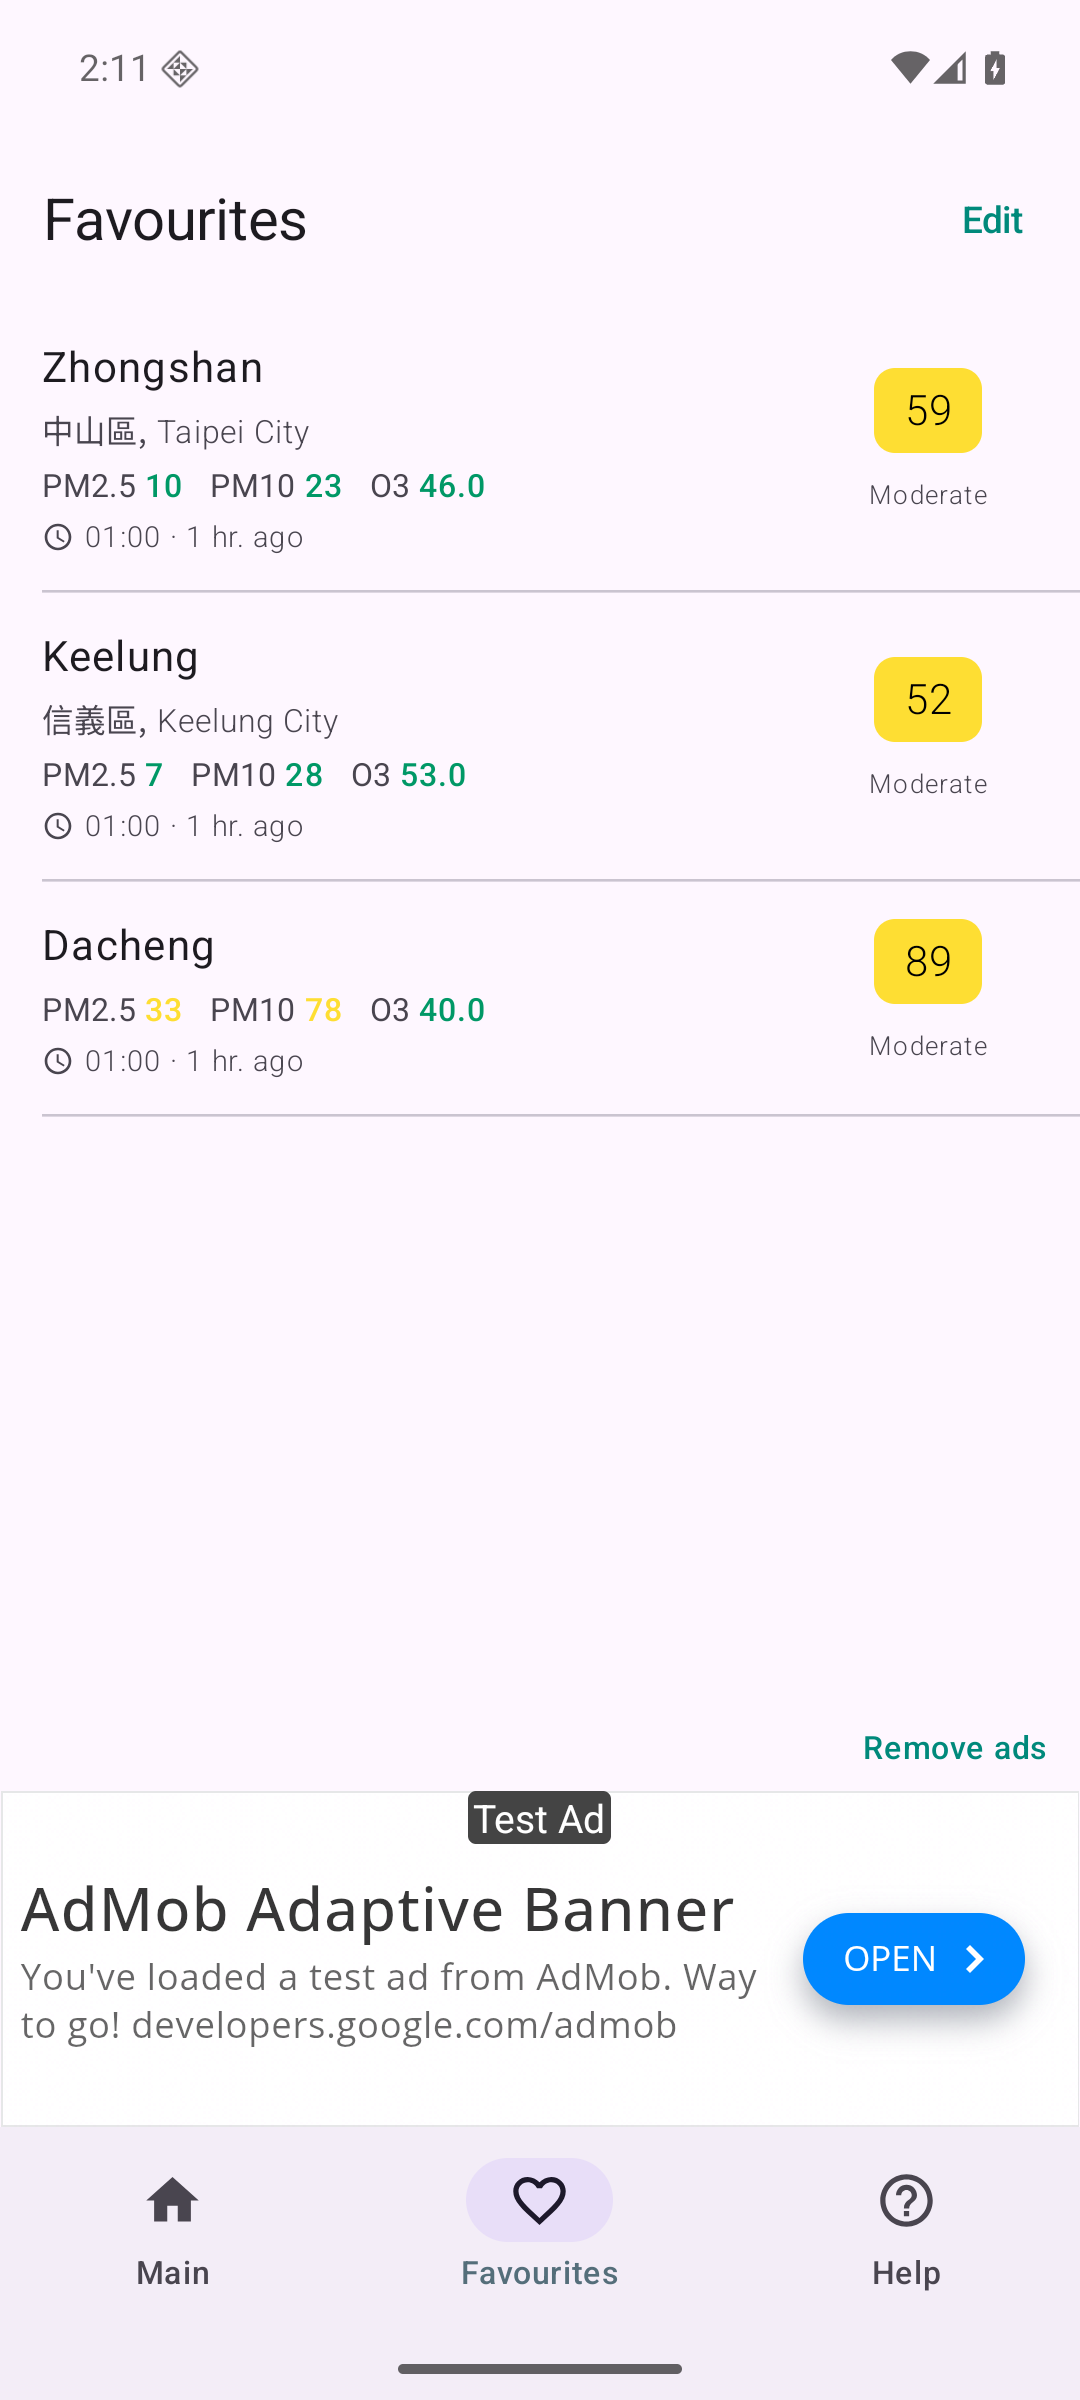
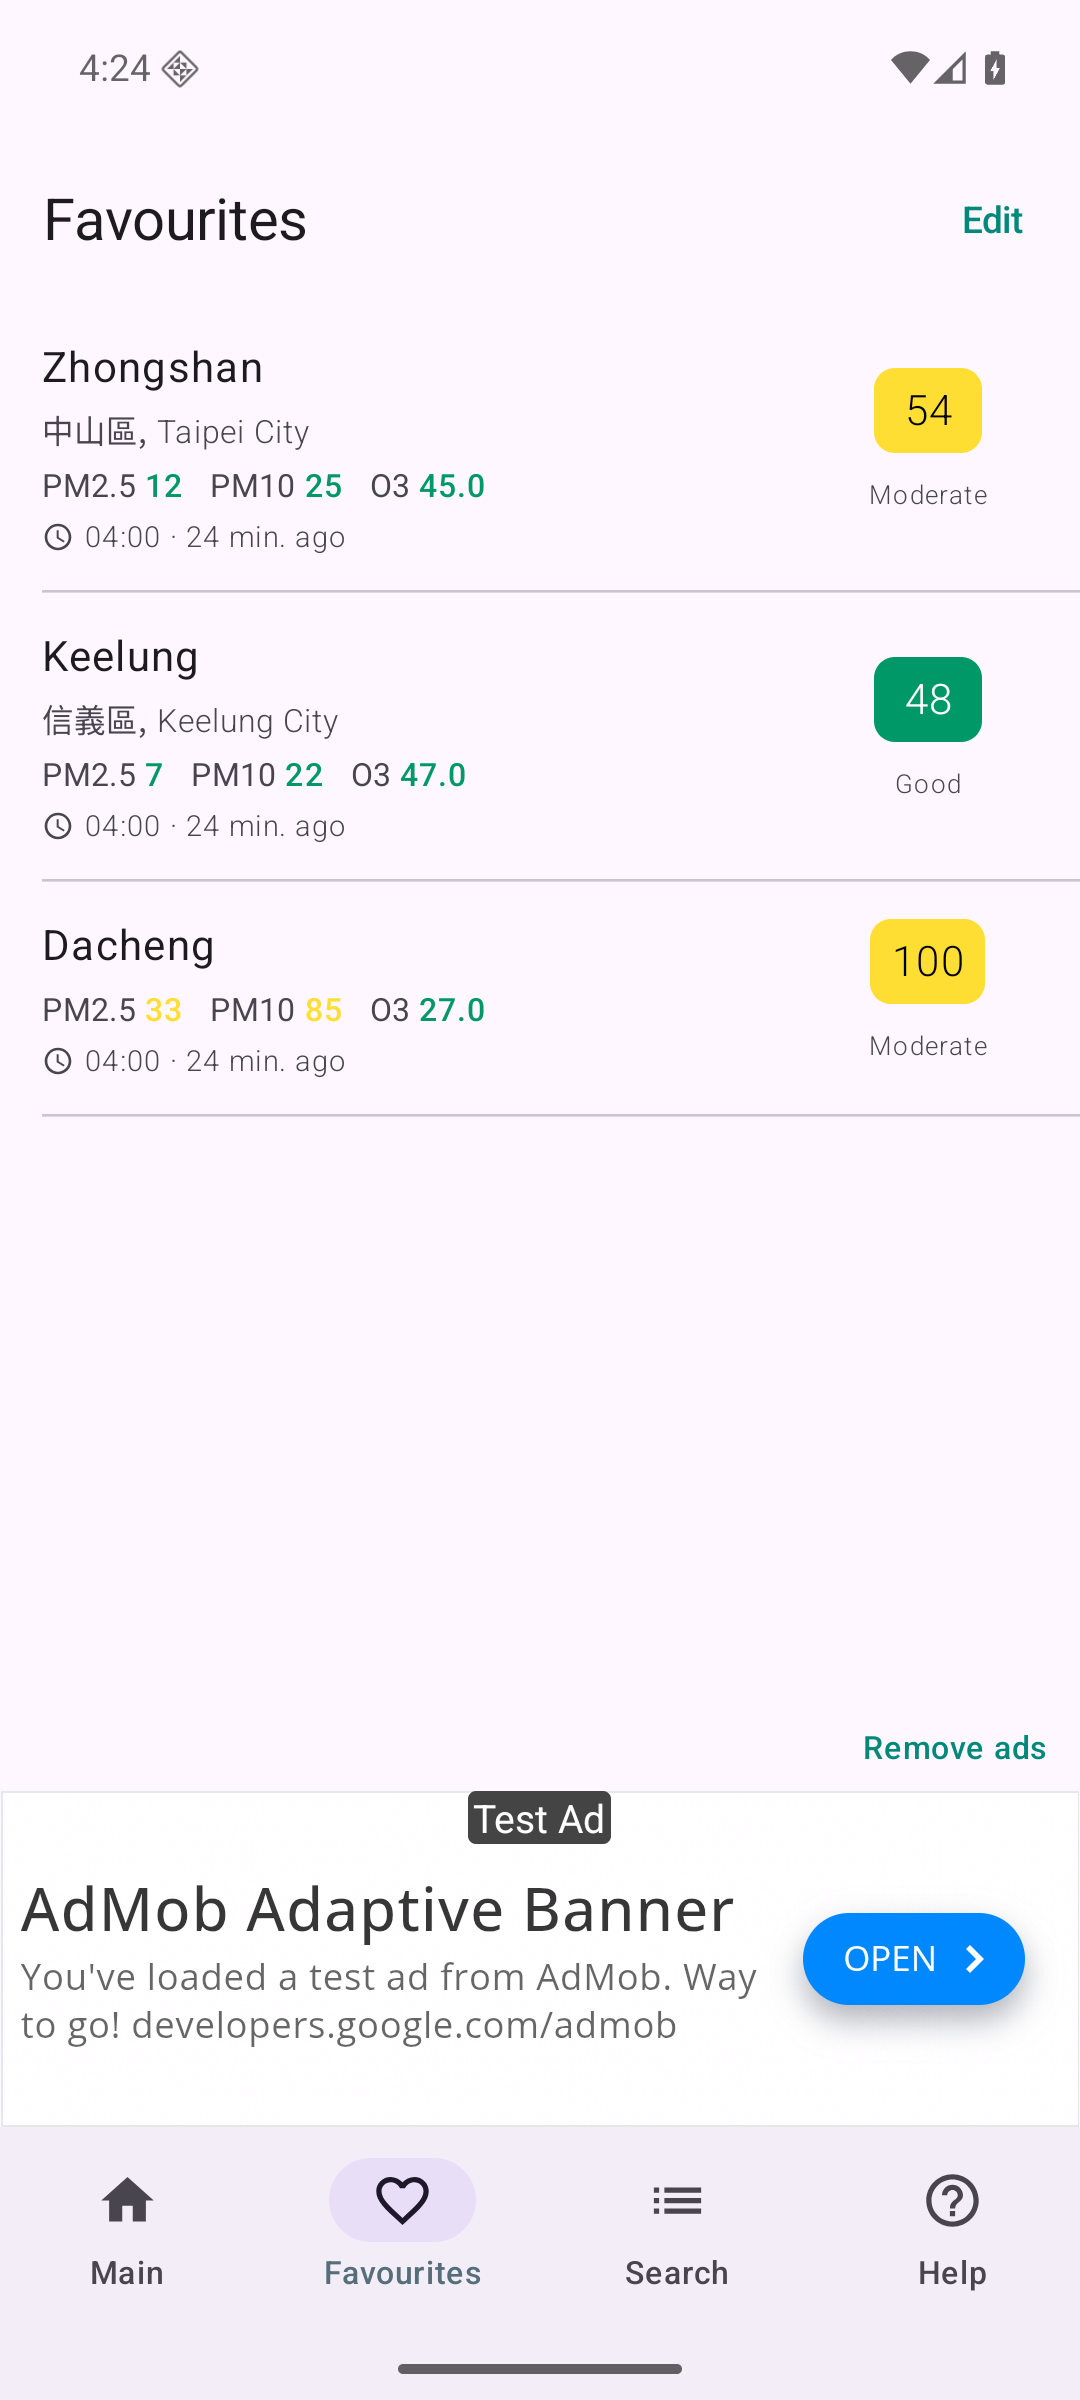
FOX-55: Back from a station returns to the tab it was opened from
The tabs leave composition while the station page is open, so their saved
state (selected tab, search text, map camera) was lost and back always
landed on the map. Keep it in a SaveableStateHolder. Screenshots from the
merged build: the station page opened from the map, and Favourites.

diff --git a/android/app/src/main/kotlin/com/kfpun/twaqi/MainActivity.kt b/android/app/src/main/kotlin/com/kfpun/twaqi/MainActivity.kt
@@ -11,6 +11,7 @@ import androidx.compose.runtime.getValue
 import androidx.compose.runtime.mutableStateOf
 import androidx.compose.runtime.remember
 import androidx.compose.runtime.saveable.rememberSaveable
+import androidx.compose.runtime.saveable.rememberSaveableStateHolder
 import androidx.compose.runtime.setValue
 import androidx.compose.ui.Modifier
 import androidx.compose.ui.platform.LocalContext
@@ -83,17 +84,22 @@ fun HomeScreen(modifier: Modifier = Modifier, onOpenDataScreen: (() -> Unit)? = 
     val pro = remember(context) { ProGraph.repository(context) }
     val entitlement by pro.entitlement.collectAsState()
     var stationId by rememberSaveable { mutableStateOf<Int?>(null) }
+    // The tabs leave composition while a station is open; this keeps their state (the selected tab,
+    // the search text, the map's camera) so back returns to the tab the station was opened from.
+    val tabsState = rememberSaveableStateHolder()
     val station = stationId
     if (station != null) {
         BackHandler { stationId = null }
         StationDestination(StationRoute(station), onBack = { stationId = null }, modifier = modifier)
     } else {
-        MainTabs(
-            isPro = entitlement == Entitlement.PRO,
-            onOpenPro = { ProNavigation.open(context, ProScreenSource.HELP_ROW) },
-            onOpenStation = { stationId = it.stationId },
-            onOpenDataScreen = onOpenDataScreen,
-            modifier = modifier
-        )
+        tabsState.SaveableStateProvider("tabs") {
+            MainTabs(
+                isPro = entitlement == Entitlement.PRO,
+                onOpenPro = { ProNavigation.open(context, ProScreenSource.HELP_ROW) },
+                onOpenStation = { stationId = it.stationId },
+                onOpenDataScreen = onOpenDataScreen,
+                modifier = modifier
+            )
+        }
     }
 }
